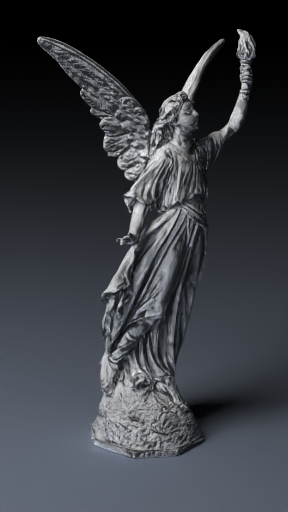
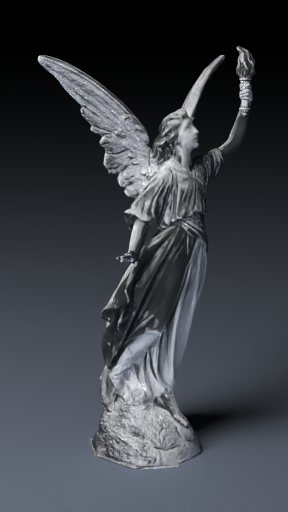
Fix focus default value issue

Changed region(s): [[0.125, 0.0312, 0.9062, 0.9375]]

diff --git a/core/scenes/scene_builder.cpp b/core/scenes/scene_builder.cpp
@@ -51,7 +51,7 @@ scene_builder::scene_builder()
   this->m_imageConfig = { 225, 400, 100, 50, color(0.0, 0.0, 0.0) };
 
   // Default camera config
-  this->m_cameraConfig = { 16.0 / 9.0, 0.0, {0.0, 0.0, 0.0}, {0.0, 0.0, 0.0}, {0.0, 1.0, 0.0}, 0.0, 0.0, false, 0.0, 0.0 };
+  this->m_cameraConfig = { 16.0 / 9.0, 0.0, {0.0, 0.0, 0.0}, {0.0, 0.0, 0.0}, {0.0, 1.0, 0.0}, 0.0, 10.0, false, 0.0, 0.0 };
 }
 
 perspective_camera scene_builder::getCamera() const
@@ -63,11 +63,11 @@ perspective_camera scene_builder::getCamera() const
     cam.lookfrom = point3(this->m_cameraConfig.lookFrom.x, this->m_cameraConfig.lookFrom.y, this->m_cameraConfig.lookFrom.z);
     cam.lookat = point3(this->m_cameraConfig.lookAt.x, this->m_cameraConfig.lookAt.y, this->m_cameraConfig.lookAt.z);
     cam.vup = vector3(this->m_cameraConfig.upAxis.x, this->m_cameraConfig.upAxis.y, this->m_cameraConfig.upAxis.z);
-    cam.vfov = this->m_cameraConfig.fov;
+    cam.vfov = this->m_cameraConfig.verticalFov;
     cam.max_depth = 50;
     cam.samples_per_pixel = 100;
     cam.defocus_angle = this->m_cameraConfig.aperture;
-    cam.focus_dist = this->m_cameraConfig.focus;
+    cam.focus_dist = this->m_cameraConfig.focusDist;
 
     // this->_camera.openingTime ???????????????
 
@@ -200,13 +200,13 @@ scene_builder& scene_builder::cameraAperture(double aperture)
 
 scene_builder& scene_builder::cameraFocus(double focus)
 {
-  this->m_cameraConfig.focus = focus;
+  this->m_cameraConfig.focusDist = focus;
   return *this;
 }
 
 scene_builder& scene_builder::cameraFOV(double fov)
 {
-  this->m_cameraConfig.fov = fov;
+  this->m_cameraConfig.verticalFov = fov;
   return *this;
 }
 
@@ -853,10 +853,10 @@ scene_builder& scene_builder::addFbxMesh(std::string name, point3 pos, const std
             if (m_cameraConfig.isOrthographic)
                 m_cameraConfig.orthoHeight = m_cameraConfig.orthoHeight != 0 ? m_cameraConfig.orthoHeight : cam->ortho_height;
             else
-                m_cameraConfig.fov = m_cameraConfig.fov > 0 ? m_cameraConfig.fov : cam->vfov;
+                m_cameraConfig.verticalFov = m_cameraConfig.verticalFov > 0 ? m_cameraConfig.verticalFov : cam->vfov;
 
-            // motion blur
-            m_cameraConfig.focus = cam->focus_dist;
+            // depth of field
+            m_cameraConfig.focusDist = cam->focus_dist;
             m_cameraConfig.aperture = cam->defocus_angle;
         }
     }

diff --git a/core/utilities/fbx_mesh_loader.cpp b/core/utilities/fbx_mesh_loader.cpp
@@ -1,8 +1,9 @@
 #include "fbx_mesh_loader.h"
 
 #include "../materials/material.h"
-#include "../materials/phong_material.h"
 #include "../materials/lambertian_material.h"
+#include "../materials/phong_material.h"
+#include "../materials/metal_material.h"
 
 #include "../textures/texture.h"
 #include "../textures/solid_color_texture.h"
@@ -432,7 +433,7 @@ vector3 fbx_mesh_loader::extractUpAxis(const ofbx::DMatrix& cam_transform)
     );
 }
 
-std::shared_ptr<material> fbx_mesh_loader::extractMeshMaterials(const ofbx::Mesh* mesh)
+std::shared_ptr<material> fbx_mesh_loader::get_mesh_materials(const ofbx::Mesh* mesh)
 {
     std::shared_ptr<texture> tex_diffuse = nullptr;
     std::shared_ptr<texture> tex_specular = nullptr;
@@ -507,6 +508,14 @@ std::shared_ptr<material> fbx_mesh_loader::extractMeshMaterials(const ofbx::Mesh
             mesh_material = std::make_shared<lambertian_material>(tex_diffuse);
         else
             mesh_material = std::make_shared<lambertian_material>(std::make_shared<solid_color_texture>(0.6, 0.6, 0.6)); // default gray color material
+    }
+    else if (shaderModel == materialShaderModel::Metal)
+    {
+        // lambert
+        if (tex_diffuse)
+            mesh_material = std::make_shared<metal_material>(tex_diffuse);
+        else
+            mesh_material = std::make_shared<metal_material>(std::make_shared<solid_color_texture>(0.6, 0.6, 0.6)); // default gray color material
     }
     else
     {

diff --git a/core/misc/ray.cpp b/core/misc/ray.cpp
@@ -4,39 +4,39 @@ ray::ray()
 {
 }
 
-ray::ray(const point3& origin, const vector3& direction) : orig(origin), dir(direction), tm(0)
+ray::ray(const point3& origin, const vector3& direction) : m_orig(origin), m_dir(direction), m_tm(0)
 {
 }
 
-ray::ray(const point3& origin, const vector3& direction, double time) : orig(origin), dir(direction), tm(time)
+ray::ray(const point3& origin, const vector3& direction, double time) : m_orig(origin), m_dir(direction), m_tm(time)
 {
 }
 
-ray::ray(const point3& origin, const vector3& direction, int _x, int _y, double time) : orig(origin), dir(direction), x(_x), y(_y), tm(time)
+ray::ray(const point3& origin, const vector3& direction, int _x, int _y, double time) : m_orig(origin), m_dir(direction), x(_x), y(_y), m_tm(time)
 {
 }
 
 point3 ray::origin() const
 {
-    return orig;
+    return m_orig;
 }
 
 vector3 ray::direction() const
 {
-    return dir;
+    return m_dir;
 }
 
 double ray::time() const
 {
-    return tm;
+    return m_tm;
 }
 
 point3 ray::at(double t) const
 {
-    return orig + t * dir;
+    return m_orig + t * m_dir;
 }
 
 [[nodiscard]] vector3 ray::inverseDirection() const
 {
-    return 1.0 / dir;
+    return 1.0 / m_dir;
 }

diff --git a/core/cameras/camera.h b/core/cameras/camera.h
@@ -21,13 +21,13 @@ public:
 	double  vfov = 90;                      // Vertical view angle (field of view) (90 is for wide-angle view for example)
 	point3  lookfrom = point3(0, 0, -1);    // Point camera is looking from
 	point3  lookat = point3(0, 0, 0);       // Point camera is looking at
-	vector3 vup = vector3(0, 1, 0);            // Camera-relative "up" direction
+	vector3 vup = vector3(0, 1, 0);         // Camera-relative "up" direction
 
 	// Depth of field
 	double  defocus_angle = 0;              // Variation angle of rays through each pixel (aperture)
 	double  focus_dist = 10;                // Distance from camera lookfrom point to plane of perfect focus
 
-	color   background_color{};               // Scene background color
+	color   background_color{};             // Scene background color
 	std::shared_ptr<image_texture> background_texture = nullptr;
 	std::shared_ptr<pdf> background_pdf = nullptr;
 	bool background_iskybox = false;

diff --git a/core/misc/scene.h b/core/misc/scene.h
@@ -45,14 +45,14 @@ public:
 
     typedef struct {
         double aspectRatio;
-        double openingTime;
+        double openingTime; // ???? used ?
         point3 lookFrom;
         point3 lookAt;
         point3 upAxis;
-        double aperture;
-        double focus;
+        double aperture; // for depth of field (defocus_angle)
+        double focusDist; // for depth of field
         bool isOrthographic;
-        double fov; // for perspective cams
+        double verticalFov; // for perspective cams
         double orthoHeight; // for orthographic cams
     } cameraConfig;
 
@@ -61,6 +61,4 @@ private:
 	hittable_list m_world;
 	std::shared_ptr<camera> m_camera;
 	hittable_list m_emissive_objects;
-
-	//std::vector<SpotLight> m_lights;
 };

diff --git a/core/scenes/scene_manager.cpp b/core/scenes/scene_manager.cpp
@@ -80,7 +80,7 @@ scene scene_manager::load_scene(const renderParameters& params, randomizer& rnd)
     if (!cameraCfg.isOrthographic)
     {
         cam = std::make_shared<perspective_camera>();
-        cam->vfov = cameraCfg.fov;
+        cam->vfov = cameraCfg.verticalFov;
     }
     else
     {
@@ -126,7 +126,7 @@ scene scene_manager::load_scene(const renderParameters& params, randomizer& rnd)
 
     // Depth of field
     cam->defocus_angle = cameraCfg.aperture;
-    cam->focus_dist = cameraCfg.focus;
+    cam->focus_dist = cameraCfg.focusDist;
 
     world.set_camera(cam);
 

diff --git a/core/misc/ray.h b/core/misc/ray.h
@@ -23,7 +23,7 @@ public:
 
 
 private:
-    point3 orig; // origin of where the ray starts
-    vector3 dir; // direction of ray
-    double tm = 0; // timestamp of the ray (when it was fired, usefull for motion blur calculation)
+    point3 m_orig; // origin of where the ray starts
+    vector3 m_dir; // direction of ray
+    double m_tm = 0; // timestamp of the ray (when it was fired, usefull for motion blur calculation)
 };

diff --git a/core/utilities/fbx_mesh_loader.h b/core/utilities/fbx_mesh_loader.h
@@ -53,7 +53,7 @@ private:
 
     static vector3 extractUpAxis(const ofbx::DMatrix& cam_transform);
 
-    static std::shared_ptr<material> extractMeshMaterials(const ofbx::Mesh* mesh);
+    static std::shared_ptr<material> get_mesh_materials(const ofbx::Mesh* mesh);
 
     static vector3 convertToMaxSystem(const vector3& openfbxVector);
 
